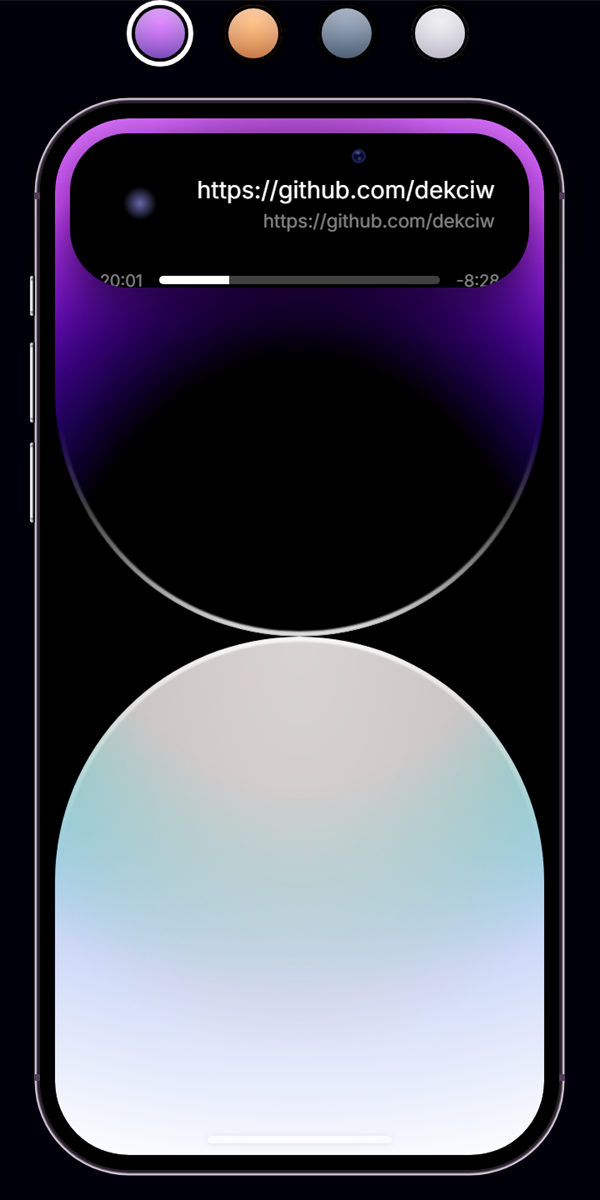
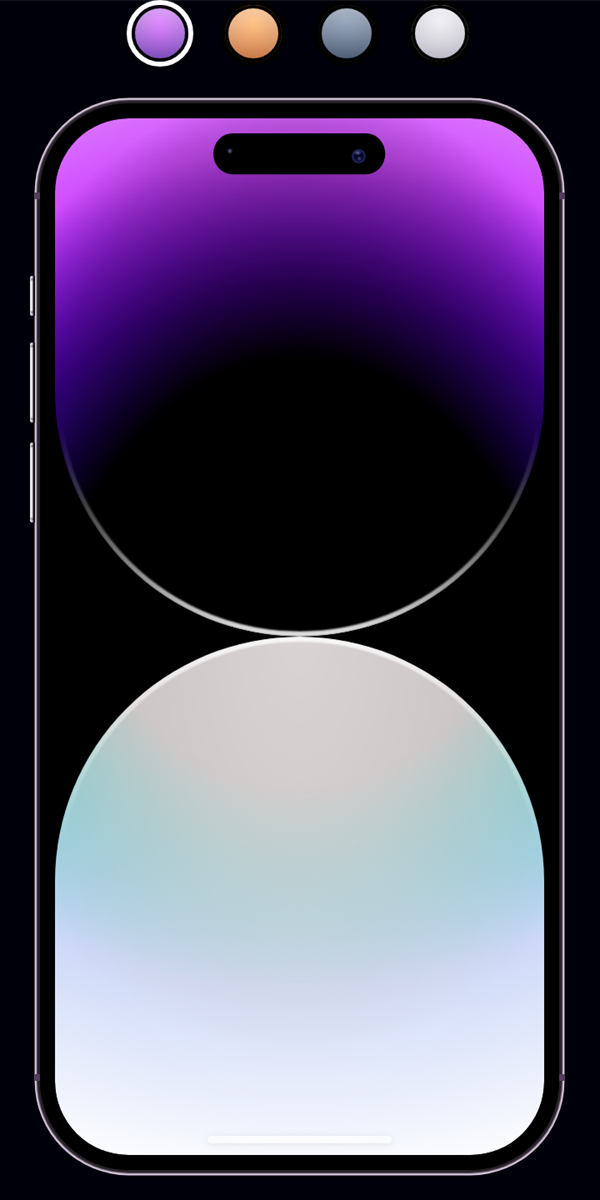
Use closed island screenshots in README

Changed region(s): [[0.09, 0.0925, 0.93, 0.2775]]

diff --git a/README.md b/README.md
@@ -22,7 +22,7 @@
 <table align="center">
   <tr>
     <td width="50%" valign="top">
-      <img src="assets/preview.png" width="320" alt="Раскрытая Dynamic Island в фиолетовой теме">
+      <img src="assets/preview.png" width="320" alt="Dynamic Island в фиолетовой теме">
     </td>
     <td width="50%" valign="top">
       <h3>Что умеет</h3>
